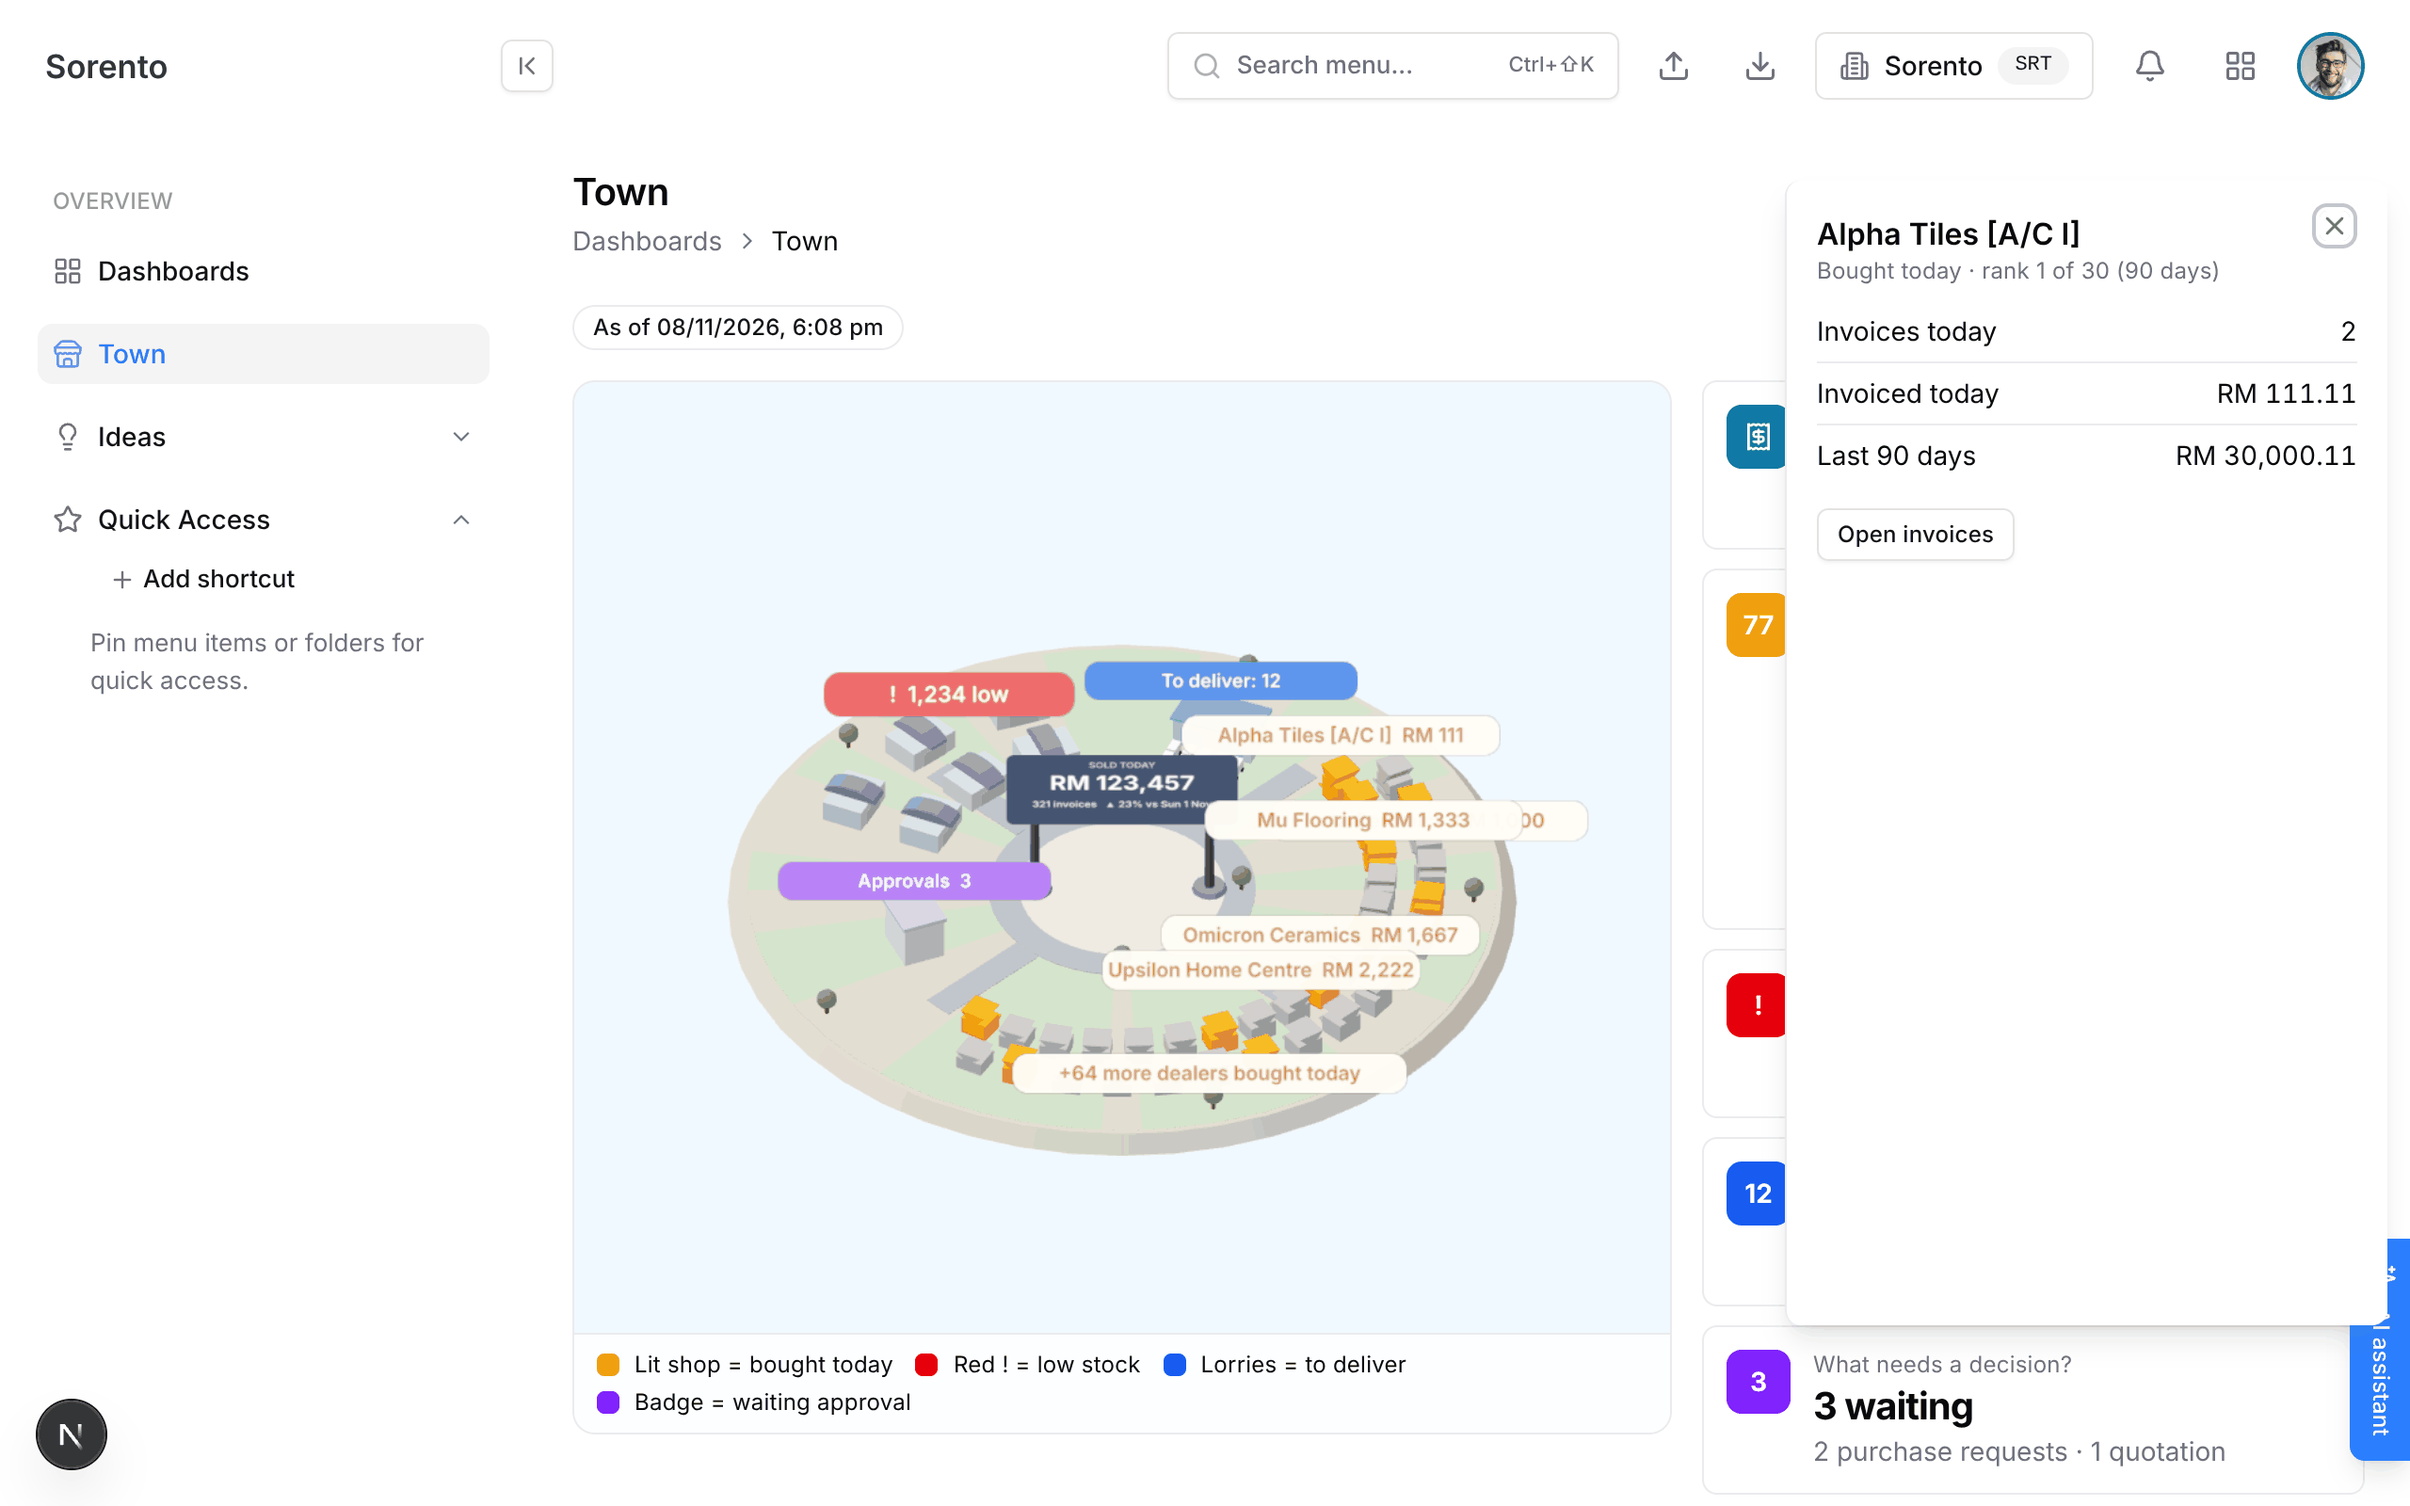
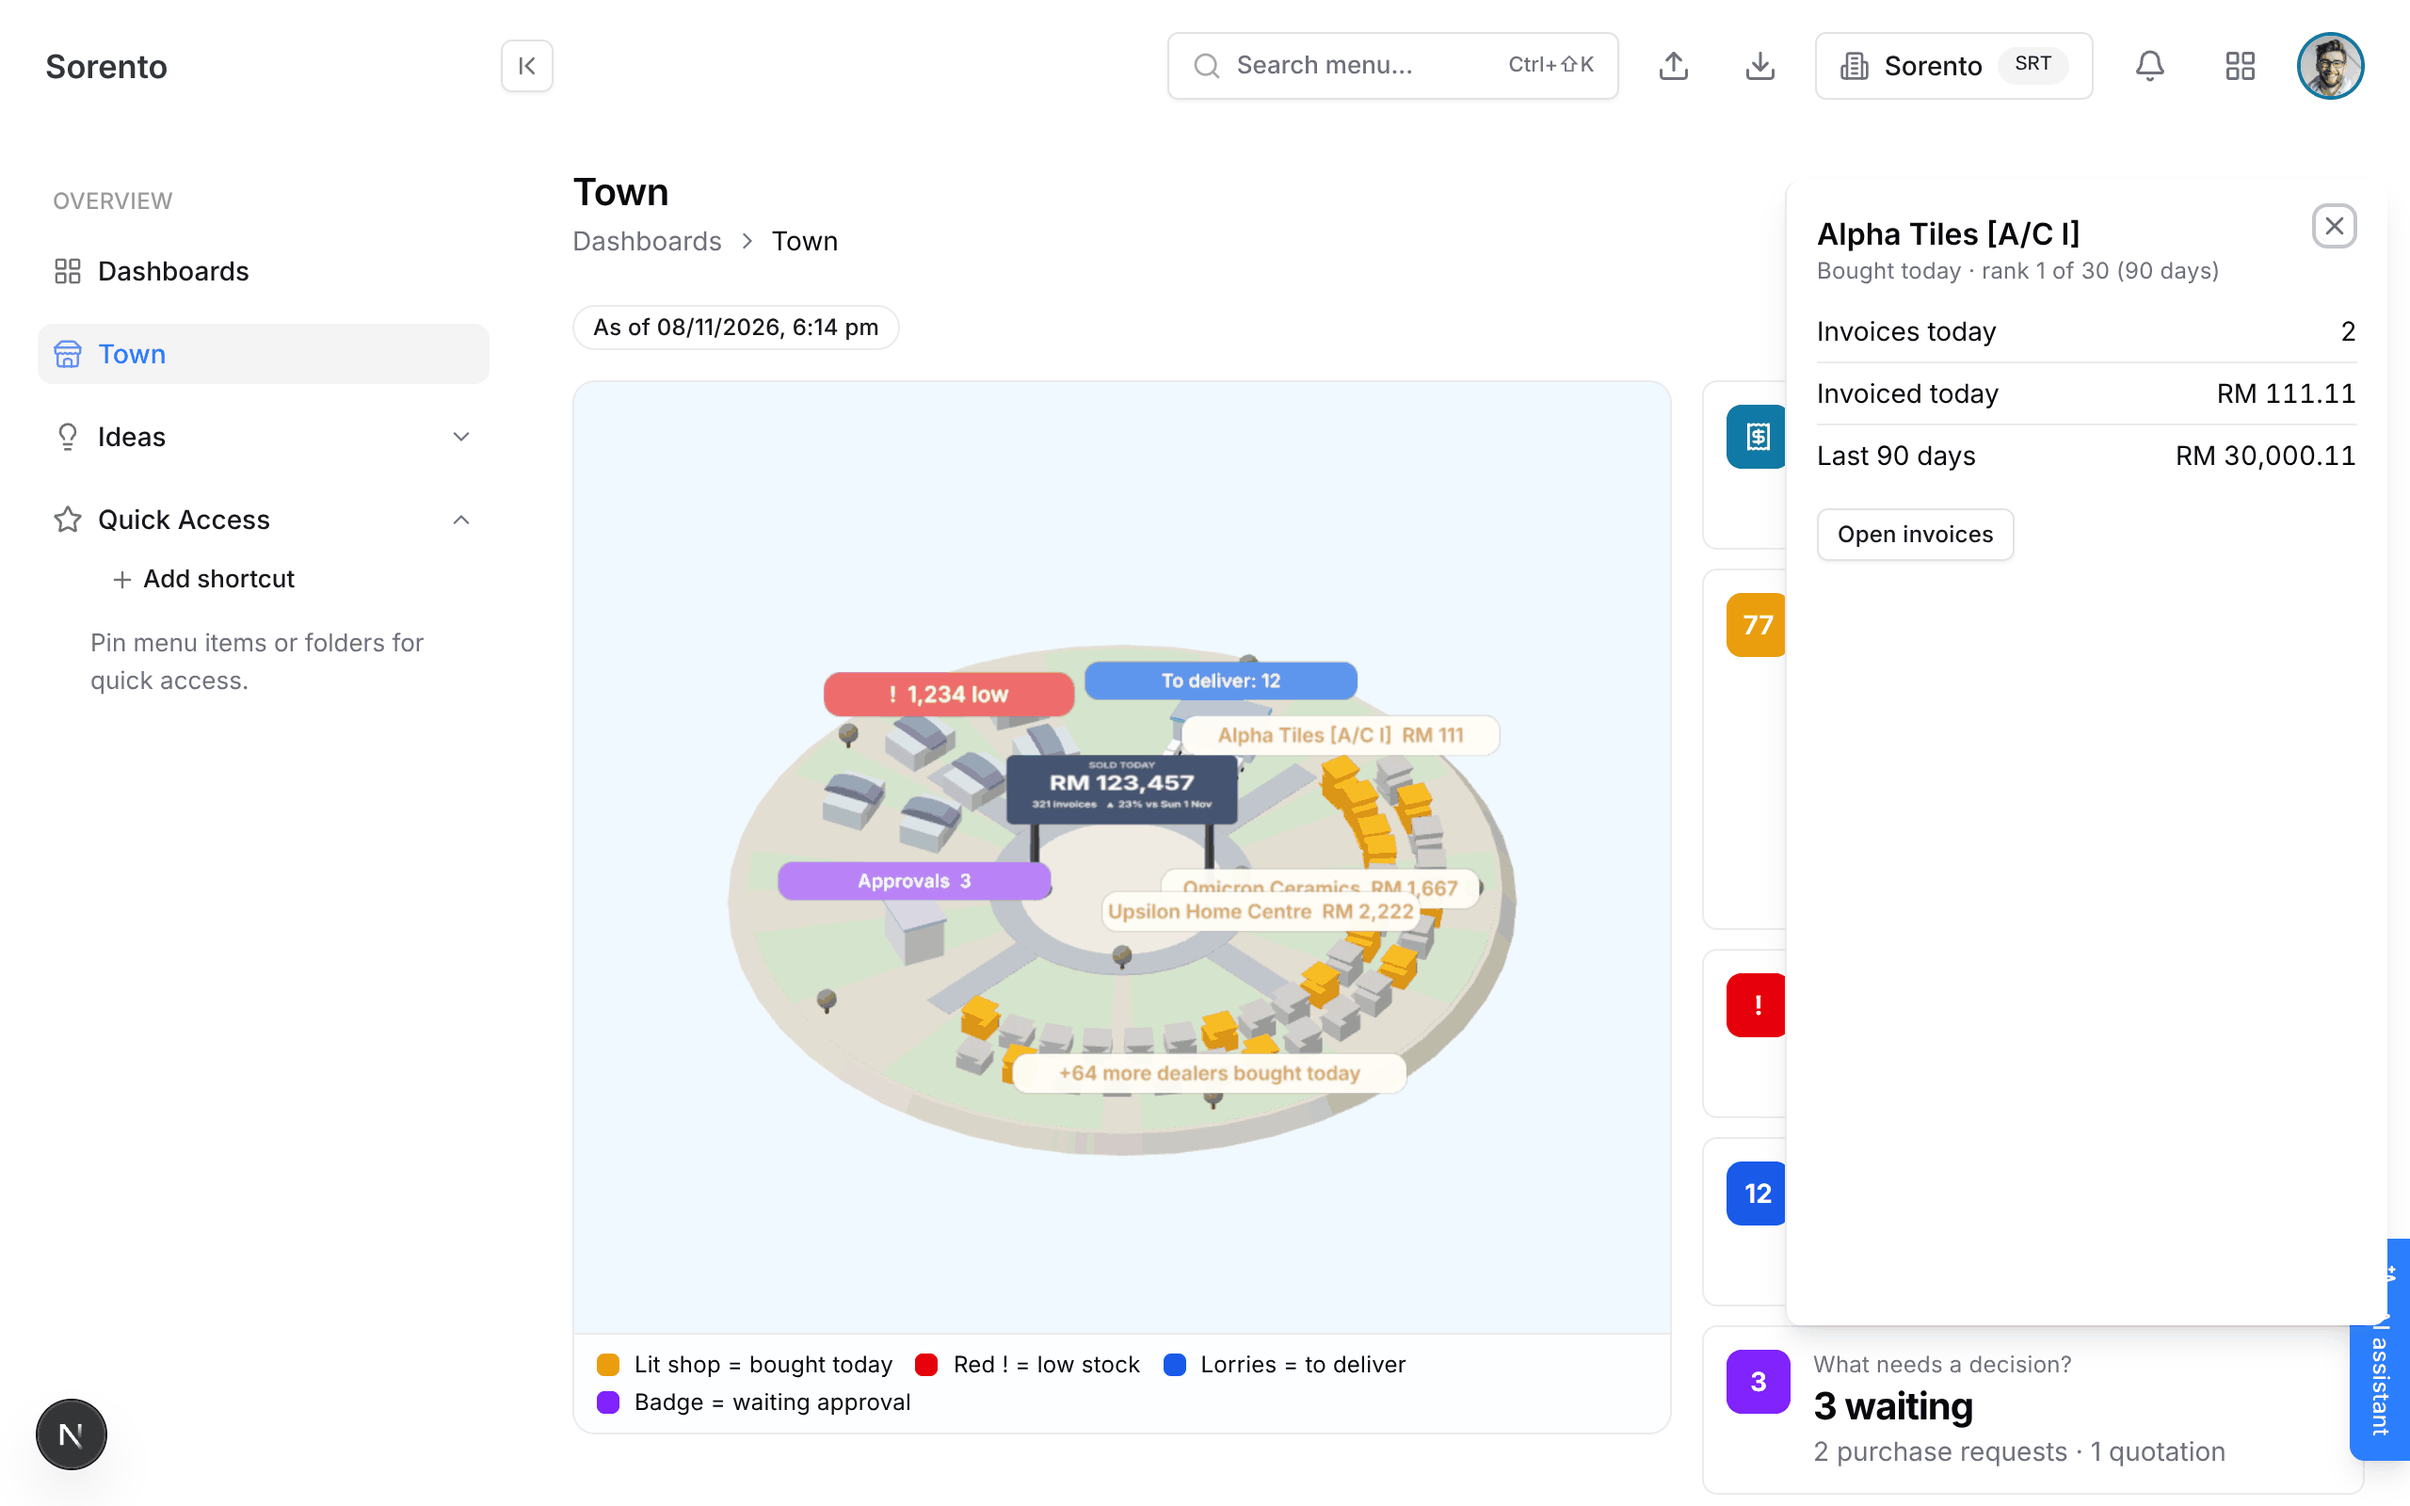
SORENTO-TOWN: final masked browser evidence (tags) [skip ci]
Claude-Session: https://claude.ai/code/session_01GHUZsSPAJiT3pnEUsA3Y2W

Changed region(s): [[0.4375, 0.5312, 0.6562, 0.6562], [0.4688, 0.4375, 0.5312, 0.5], [0.5, 0.6875, 0.5312, 0.7188]]

diff --git a/documentation/plans/dashboard/evidence/README.md b/documentation/plans/dashboard/evidence/README.md
@@ -54,18 +54,24 @@ Defects:
    `aria-describedby={undefined}` for DialogContent.
 4. The Sheet close icon button is 16x16 px at 375.
 
-## Final pass (head 984cfe3009, same fictional snapshot: 8 lit shops, 60 stalls)
+## Final pass (head 0d86b6dcb1, same fictional snapshot: 8 lit shops, 60 stalls)
 
-The two screenshots above were replaced (same names, fictional data only).
+The two screenshots above were replaced (same names, fictional data only). Three name tags are drawn now
+(Alpha Tiles, Omicron Ceramics, Upsilon Home Centre).
 
-- Legend below the canvas, not on the island, at 1280 and 375: PASS (legend top is at or below the canvas bottom).
-- Panels: no console warnings or errors opening all five panels at 1280 and at 375: PASS.
-- Sheet close hit area on a coarse pointer (375, touch emulation): 44x44 px, PASS (the icon itself is 16 px;
-  at 1280 with a fine pointer the hit area is 16x16, as intended).
-- Draw calls 18 per frame (limit 100); 0 rendered frames and 0 draws in 4 s idle, at both sizes: PASS.
-- Island plus labels fill about 90 percent of the limiting dimension: FAIL. Measured on the canvas pixels
-  (non-background bounding box): 1280 canvas 582x505 css, 79 percent of the width and 79 percent of the height,
-  margins L 81 / R 43 / T 12 / B 94 css px (an empty band at the bottom, content a little left-heavy);
-  375 canvas 341x227, 79 percent of the width and 85 percent of the height, margins L 48 / R 25 / T 12 / B 22 css px.
-- No two of the five tags overlap: FAIL. "Iota Ceramics RM 1,000" is still hidden behind "Mu Flooring RM 1,333"
-  at 1280 and at 375 (only the tail "00" shows at the right).
+- Legend below the canvas at 1280 and 375: PASS.
+- Panels: no console warnings or errors opening all five panels at 1280 and 375: PASS.
+- Sheet close hit area on a coarse pointer (375 touch emulation): 44x44 px, PASS (16x16 with a fine pointer at 1280).
+- Draw calls 16 per frame (limit 100); 0 rendered frames and 0 draws in 4 s idle at both sizes: PASS.
+- Tags, checked on canvas screenshots of the default view and one drag each way at 1280 and 375:
+  - None is clipped at the top edge in any of the six frames: PASS.
+  - Alpha Tiles never overlaps another tag: PASS.
+  - FAIL: "Omicron Ceramics RM 1,667" and "Upsilon Home Centre RM 2,222" still overlap. In the default view and after
+    a drag to the right, the Upsilon tag covers the lower half of the Omicron tag (the Omicron text is cut in half);
+    after a drag to the left it covers the Omicron tag from its first letters on ("Omicro" shows).
+  - After the drag to the left, the "+64 more dealers bought today" tag sits 6 css px from the right edge of the
+    canvas at both sizes (tight, text complete).
+- Fill, measured on the canvas pixels (non-background bounding box, default view, 6 px css inset against the rounded
+  corners): 1280 canvas 582x505 css: 72 percent of the width, 54 percent of the height, margins L 81 / R 81 / T 139 /
+  B 94 css px; 375 canvas 341x228: 72 percent of the width, 70 percent of the height, margins L 47 / R 46 / T 46 /
+  B 21 css px. Smaller than the previous pass (79 percent), nothing clipped by it; the island is centred.
